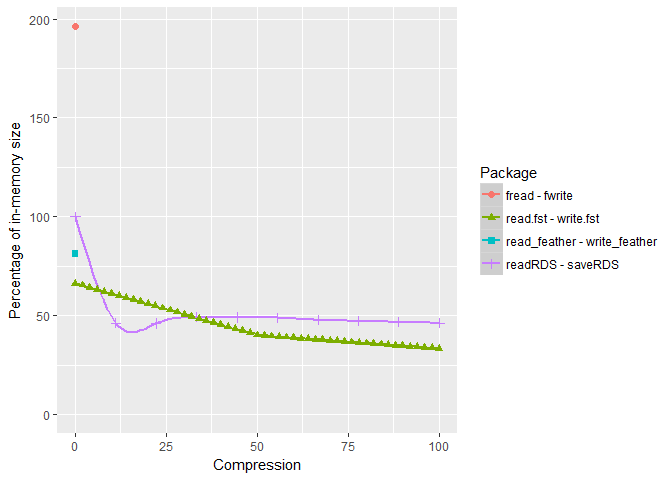
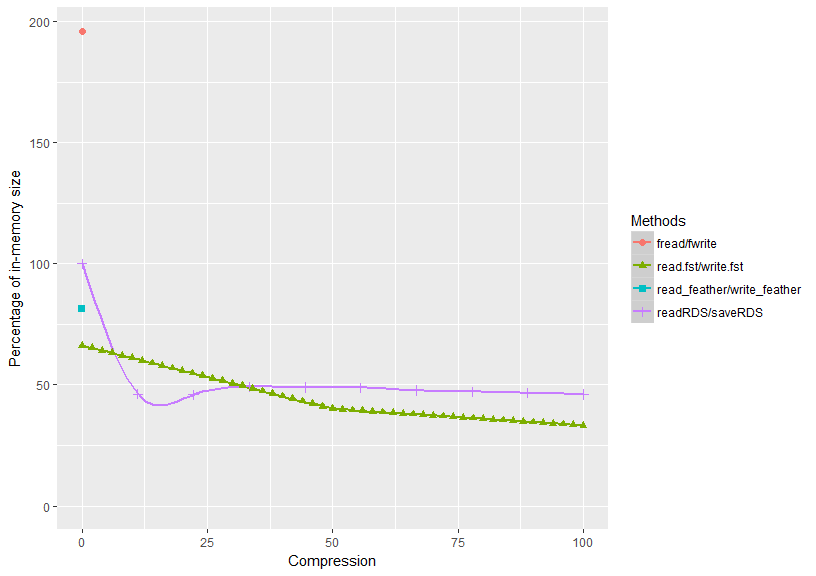
Update benchmarks and improved figure scaling

diff --git a/README.md b/README.md
@@ -9,18 +9,18 @@ Overview
 
 Package `fst` [(code here)](https://github.com/fstpackage/fst) provides a fast, easy and flexible way to serialize data frames. It allows for fast compression and decompression and has the ability to access stored frames randomly. With access speeds of above 1 GB/s, `fst` is specifically designed to unlock the potential of high speed solid state disks that can be found in most modern computers. The figure below compares the read and write performance of the `fst` package to various alternatives.
 
-| Function       |        Time| Size (MB) |  Speed (MB/s)|    N|
-|:---------------|-----------:|:----------|-------------:|----:|
-| readRDS        |   0.3112106| 200       |     642.65522|  308|
-| fread          |  17.2330203| 392       |      11.60569|  280|
-| **read.fst**   |   0.0610902| 133       |    3273.86553|  308|
-| read\_feather  |   0.2219555| 163       |     901.08681|  280|
-| saveRDS        |   0.3405369| 200       |     587.31114|  280|
-| fwrite         |   0.9786617| 392       |     204.36185|  280|
-| **write.fst**  |   0.1436382| 133       |    1392.39538|  308|
-| write\_feather |   0.7611664| 163       |     262.75612|  280|
+| Function       |        Time| Size (MB) |  Speed (MB/s)|     N|
+|:---------------|-----------:|:----------|-------------:|-----:|
+| readRDS        |   0.3089175| 200       |     647.42561|  1397|
+| fread          |  17.1259319| 392       |      11.67826|  1270|
+| **read.fst**   |   0.0611263| 133       |    3271.93044|  1397|
+| read\_feather  |   0.2228486| 163       |     897.47523|  1270|
+| saveRDS        |   0.3406979| 200       |     587.03369|  1270|
+| fwrite         |   0.9813563| 392       |     203.80073|  1270|
+| **write.fst**  |   0.1427031| 133       |    1401.51894|  1397|
+| write\_feather |   0.7631548| 163       |     262.07150|  1270|
 
-Parameter *speed* is calculated by dividing the in-memory size of the data frame by the measured time. The results are also visualized in the figure below.
+These benchmarks were performed on a Xeon E5 CPU @2.5GHz (more systems will follow). Parameter *speed* was calculated by dividing the in-memory size of the data frame by the measured time. The results are also visualized in the figure below.
 
 ![](README-speedCode-1.png)
 
